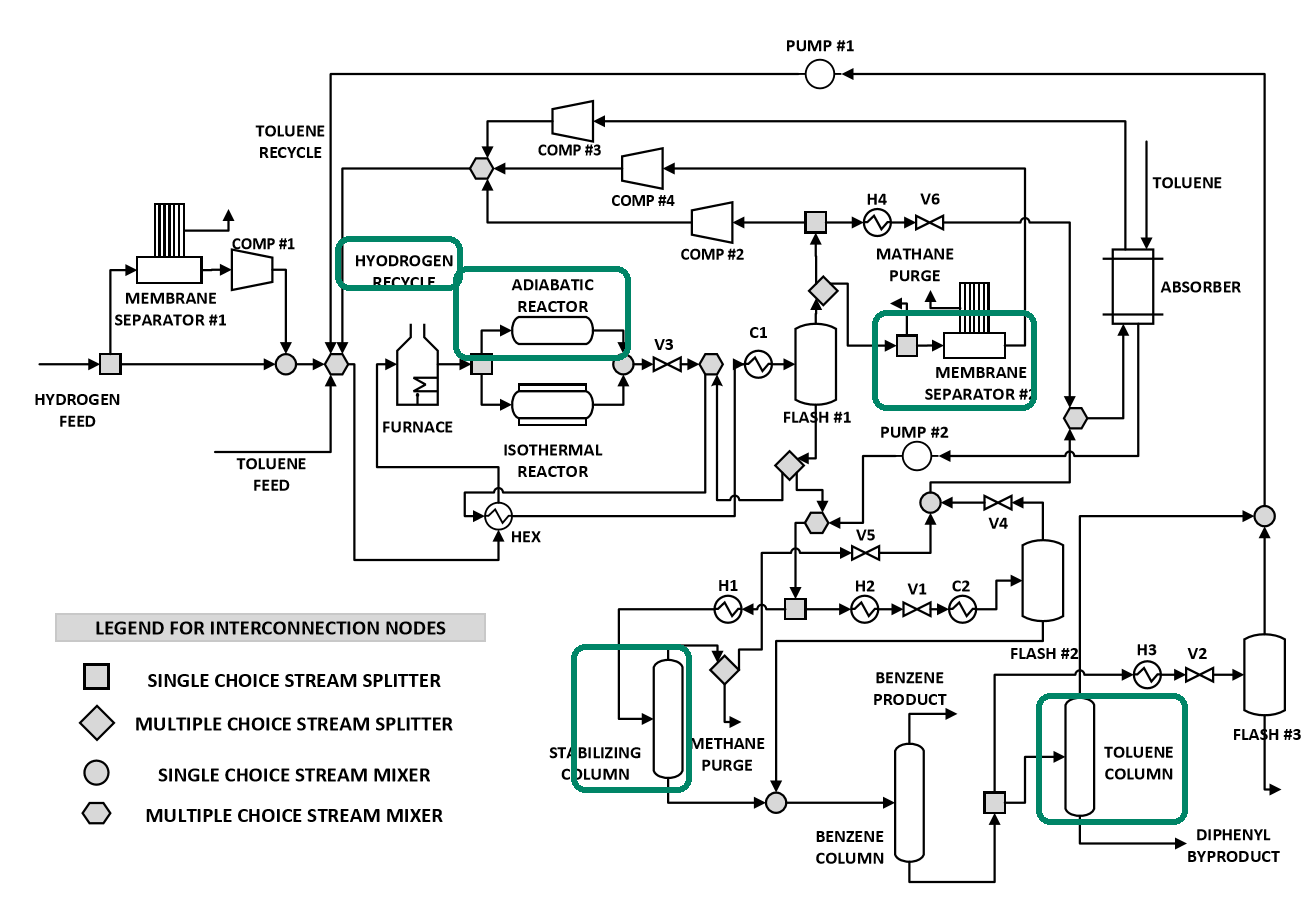
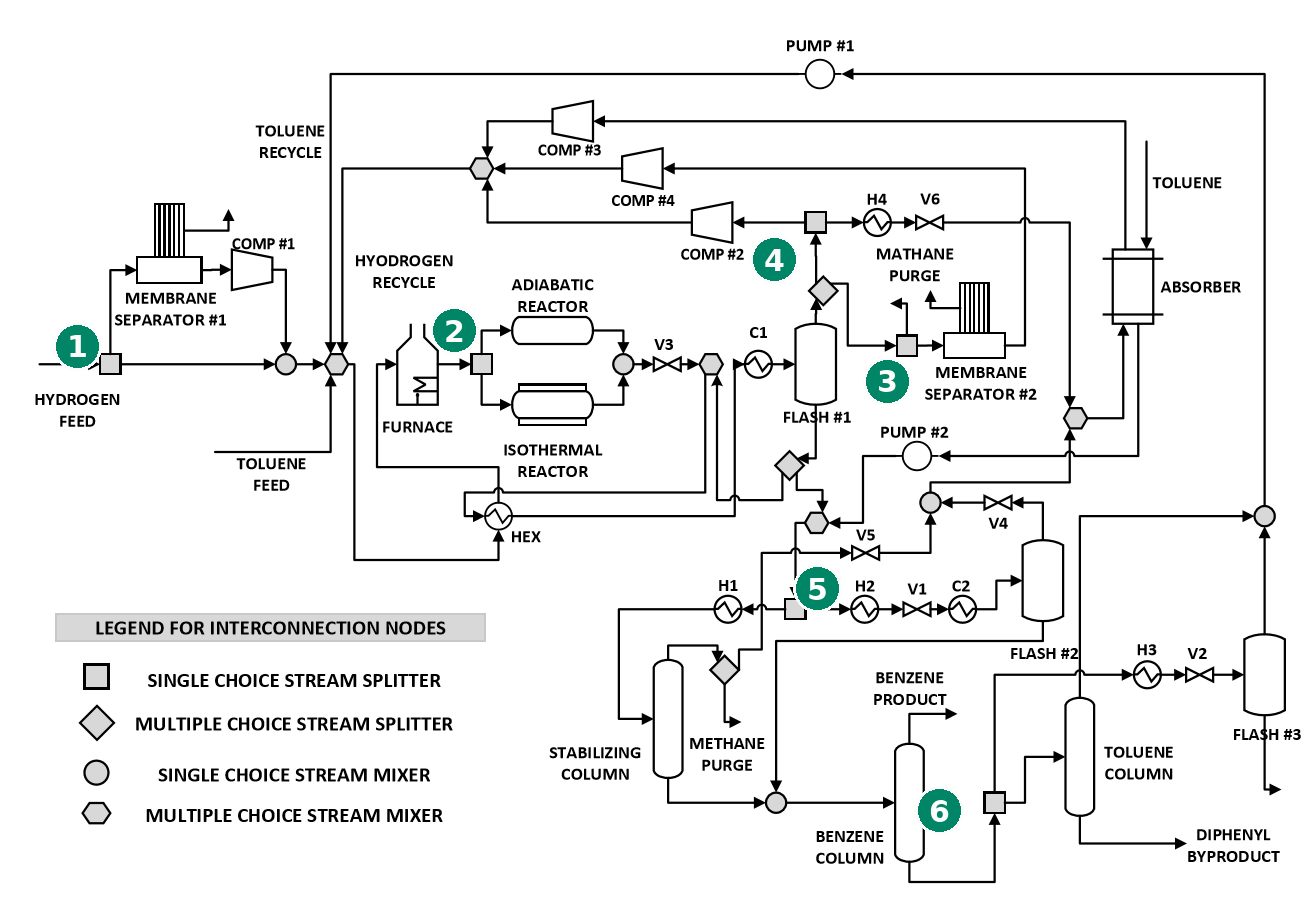
Address follow-up review: sober title, model-true nonlinearity figure, slide-24-style flowsheet annotation

diff --git a/_posts/2026-08-16-hda-revisited.md b/_posts/2026-08-16-hda-revisited.md
@@ -1,7 +1,7 @@
 ---
 layout: post
-title: 38% Left on the Table
-description: 'Revisiting the HDA process: a decade-long road from a GAMS internship to the certified global optimum of one of process synthesis'' founding models'
+title: Revisiting the HDA Process Synthesis Problem
+description: 'A decade-long road from a GAMS internship to the certified global optimum of one of process synthesis'' founding models'
 image: assets/images/hda-superstructure.png
 date: 2026-08-16 08:00:00 -0400
 ---
@@ -79,13 +79,14 @@ constraints, and each of those has a familiar face:
   for absorption, `(1 - A^(N*eta)) / (1 - A)`: logarithms of flow ratios and
   an exponential in the tray count.
 
-![Outer approximation on convex and nonconvex functions](assets/images/hda-oa-convexity.png)
+![Two nonlinear correlations from the HDA model](assets/images/hda-nonlinear-correlations.png)
 
-*Why the convex toolbox stops here: on a convex function (left), every
-linearization underestimates the function, so outer-approximation cuts are
-valid everywhere. On a nonconvex function like the ones above (right), the
-same linearization slices through the graph and can cut off the global
-optimum entirely.*
+*Two of the model's own correlations, drawn over the model's own variable
+ranges. Each enters the model as an equality, so the feasible operating
+points are the curve itself: the average of two feasible points is
+infeasible (left), and a linearization at any one point misses the curve
+everywhere else (right). Feasible sets like these have no convex description,
+which is exactly where the convex toolbox stops.*
 
 There is a second, sneakier consequence of the superstructure idea. These
 correlations describe *operating* equipment,  but the optimizer must also
@@ -137,10 +138,10 @@ October 2020 were already remarkable, and in hindsight, prophetic:
 
 ![The optimal HDA flowsheet highlighted on the superstructure](assets/images/hda-optimal-flowsheet.png)
 
-*The winning route drawn on the superstructure: hydrogen feed taken straight
-(no membrane purification), adiabatic reactor, hydrogen recycle, methane
-recovered with the second membrane, and both liquid separations done in
-columns.*
+*The six decisions of the optimal flowsheet, numbered as in the 2020
+presentation: (1) hydrogen feed taken straight, no membrane purification;
+(2) adiabatic reactor; (3) methane recovered with the second membrane;
+(4) vapor stream recycled; (5) stabilizing column; (6) toluene column.*
 
 ![Logic-based outer approximation loop](assets/images/hda-loa-diagram.png)
 
